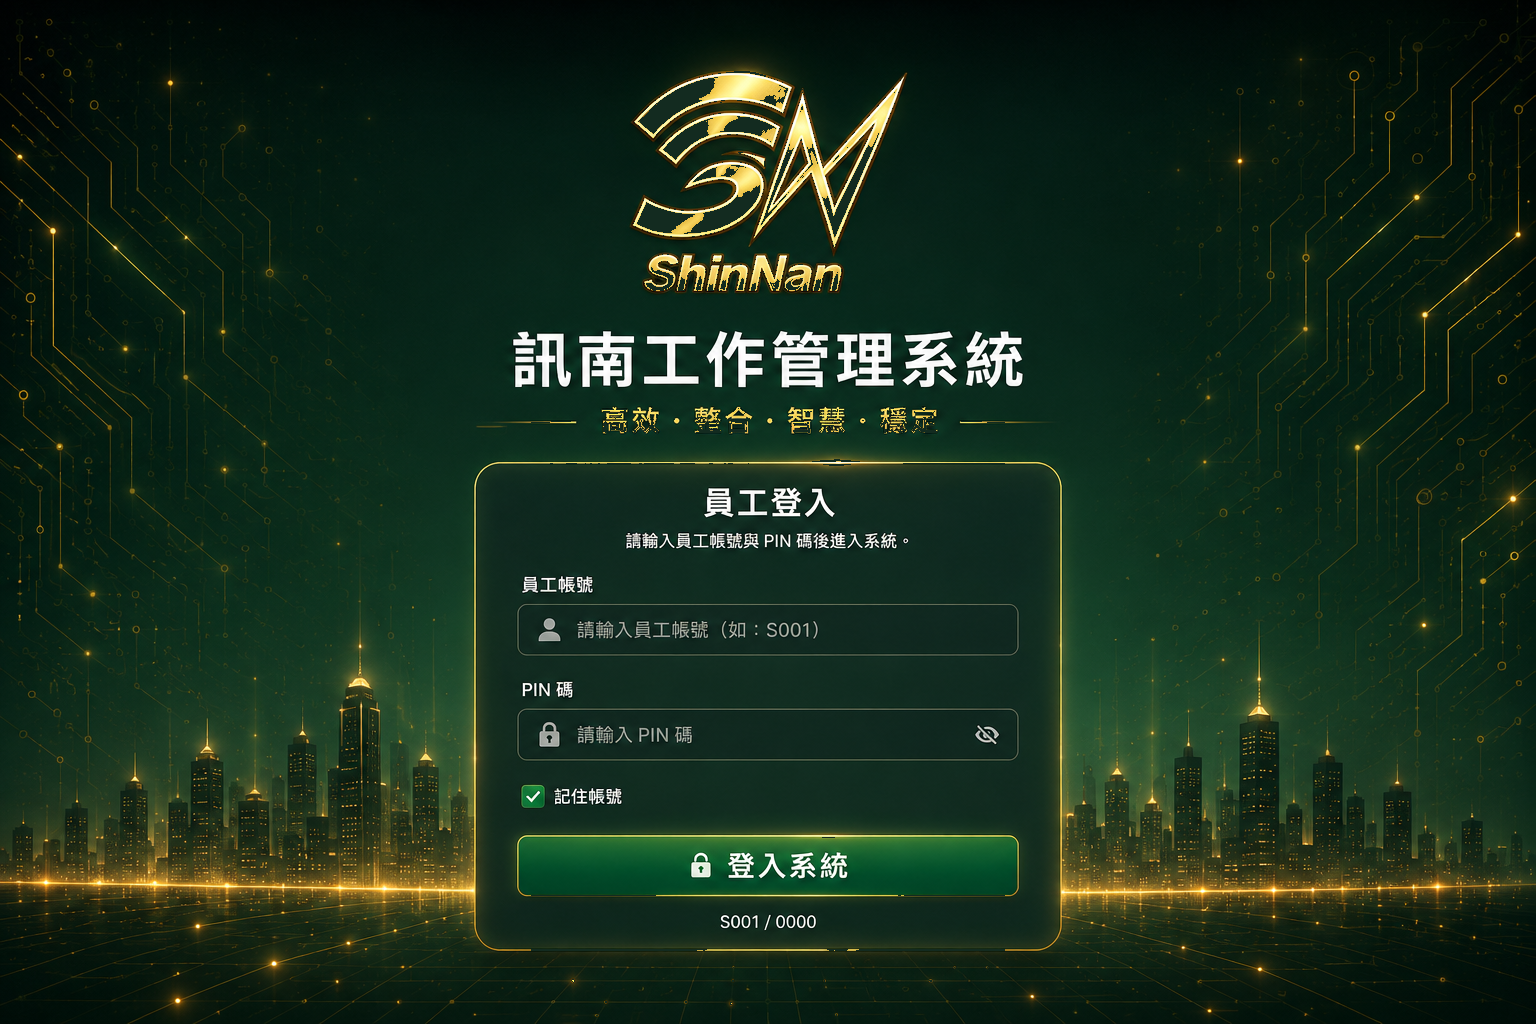
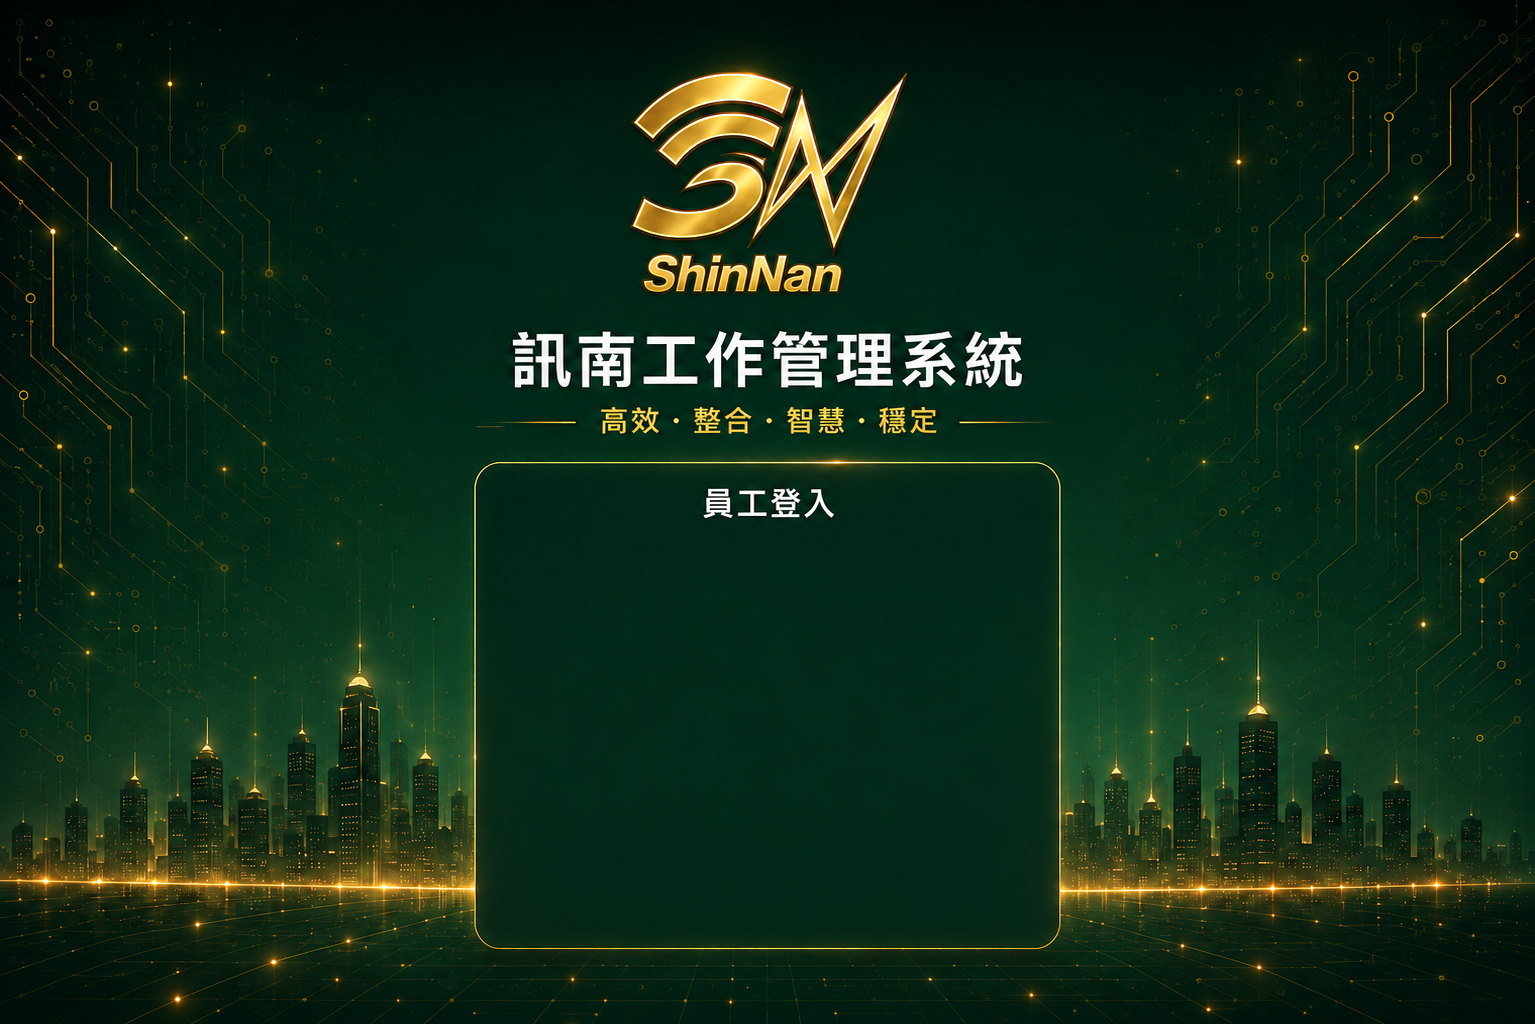
fix: desktop login new bg image, realign field positions to new layout

diff --git a/app/routes/employee_auth.py b/app/routes/employee_auth.py
@@ -181,7 +181,7 @@ def _employee_login_page(error: str = "", next_url: str = "/app", mobile: bool =
       position: relative;
       width: min(100vw, 150vh);
       aspect-ratio: 3 / 2;
-      background-image: url("/static/login_bg_gold_green.png?v=cl17g");
+      background-image: url("/static/login_bg_gold_green.png?v=cl17h");
       background-size: 100% 100%;
       background-position: center;
       background-repeat: no-repeat;
@@ -196,17 +196,17 @@ def _employee_login_page(error: str = "", next_url: str = "/app", mobile: bool =
 
     .field-input {{
       position: absolute;
-      left: 33.66%;
-      width: 32.62%;
-      height: 5.08%;
+      left: 33.5%;
+      width: 33%;
+      height: 6%;
       border: 0;
       border-radius: 12px;
       outline: none;
       background: transparent;
       color: #ffffff;
-      padding: 0 3.9%;
-      font-size: clamp(16px, 1.65vw, 27px);
-      font-weight: 1000;
+      padding: 0 4%;
+      font-size: clamp(14px, 1.6vw, 26px);
+      font-weight: 900;
       font-family: inherit;
       text-shadow: 0 2px 8px rgba(0, 0, 0, .7);
     }}
@@ -216,26 +216,27 @@ def _employee_login_page(error: str = "", next_url: str = "/app", mobile: bool =
     }}
 
     .field-input:not(:placeholder-shown) {{
-      background: linear-gradient(90deg, transparent 0 10.5%, rgba(0, 15, 8, .92) 10.5% 100%);
+      background: rgba(0, 15, 8, 0.55);
     }}
 
     .pin-input:not(:placeholder-shown) {{
-      background: linear-gradient(90deg, transparent 0 10.5%, rgba(0, 15, 8, .92) 10.5% 89%, transparent 89% 100%);
+      background: rgba(0, 15, 8, 0.55);
     }}
 
     .field-input:focus {{
       box-shadow: 0 0 0 2px rgba(245, 211, 93, .85), 0 0 24px rgba(245, 211, 93, .24);
+      background: rgba(0, 15, 8, 0.65);
     }}
 
-    .staff-input {{ top: 58.98%; }}
-    .pin-input {{ top: 69.33%; }}
+    .staff-input {{ top: 48%; }}
+    .pin-input   {{ top: 58%; }}
 
     .toggle-pin {{
       position: absolute;
-      left: 63.35%;
-      top: 69.33%;
-      width: 3.0%;
-      height: 5.08%;
+      left: 63.5%;
+      top: 58%;
+      width: 3%;
+      height: 6%;
       border: 0;
       background: transparent;
       cursor: pointer;
@@ -243,10 +244,10 @@ def _employee_login_page(error: str = "", next_url: str = "/app", mobile: bool =
 
     .remember {{
       position: absolute;
-      left: 33.66%;
-      top: 76.35%;
-      width: 10.8%;
-      height: 3.6%;
+      left: 33.5%;
+      top: 67%;
+      width: 12%;
+      height: 4%;
       cursor: pointer;
     }}
 
@@ -259,10 +260,10 @@ def _employee_login_page(error: str = "", next_url: str = "/app", mobile: bool =
 
     .submit-button {{
       position: absolute;
-      left: 33.66%;
-      top: 81.74%;
-      width: 32.62%;
-      height: 5.86%;
+      left: 33.5%;
+      top: 73%;
+      width: 33%;
+      height: 6.5%;
       border: 0;
       border-radius: 12px;
       background: transparent;
@@ -277,9 +278,9 @@ def _employee_login_page(error: str = "", next_url: str = "/app", mobile: bool =
 
     .err {{
       position: absolute;
-      left: 33.66%;
-      top: 54.5%;
-      width: 32.62%;
+      left: 33.5%;
+      top: 43%;
+      width: 33%;
       padding: 8px 12px;
       border: 1px solid rgba(255, 130, 130, .55);
       border-radius: 10px;
